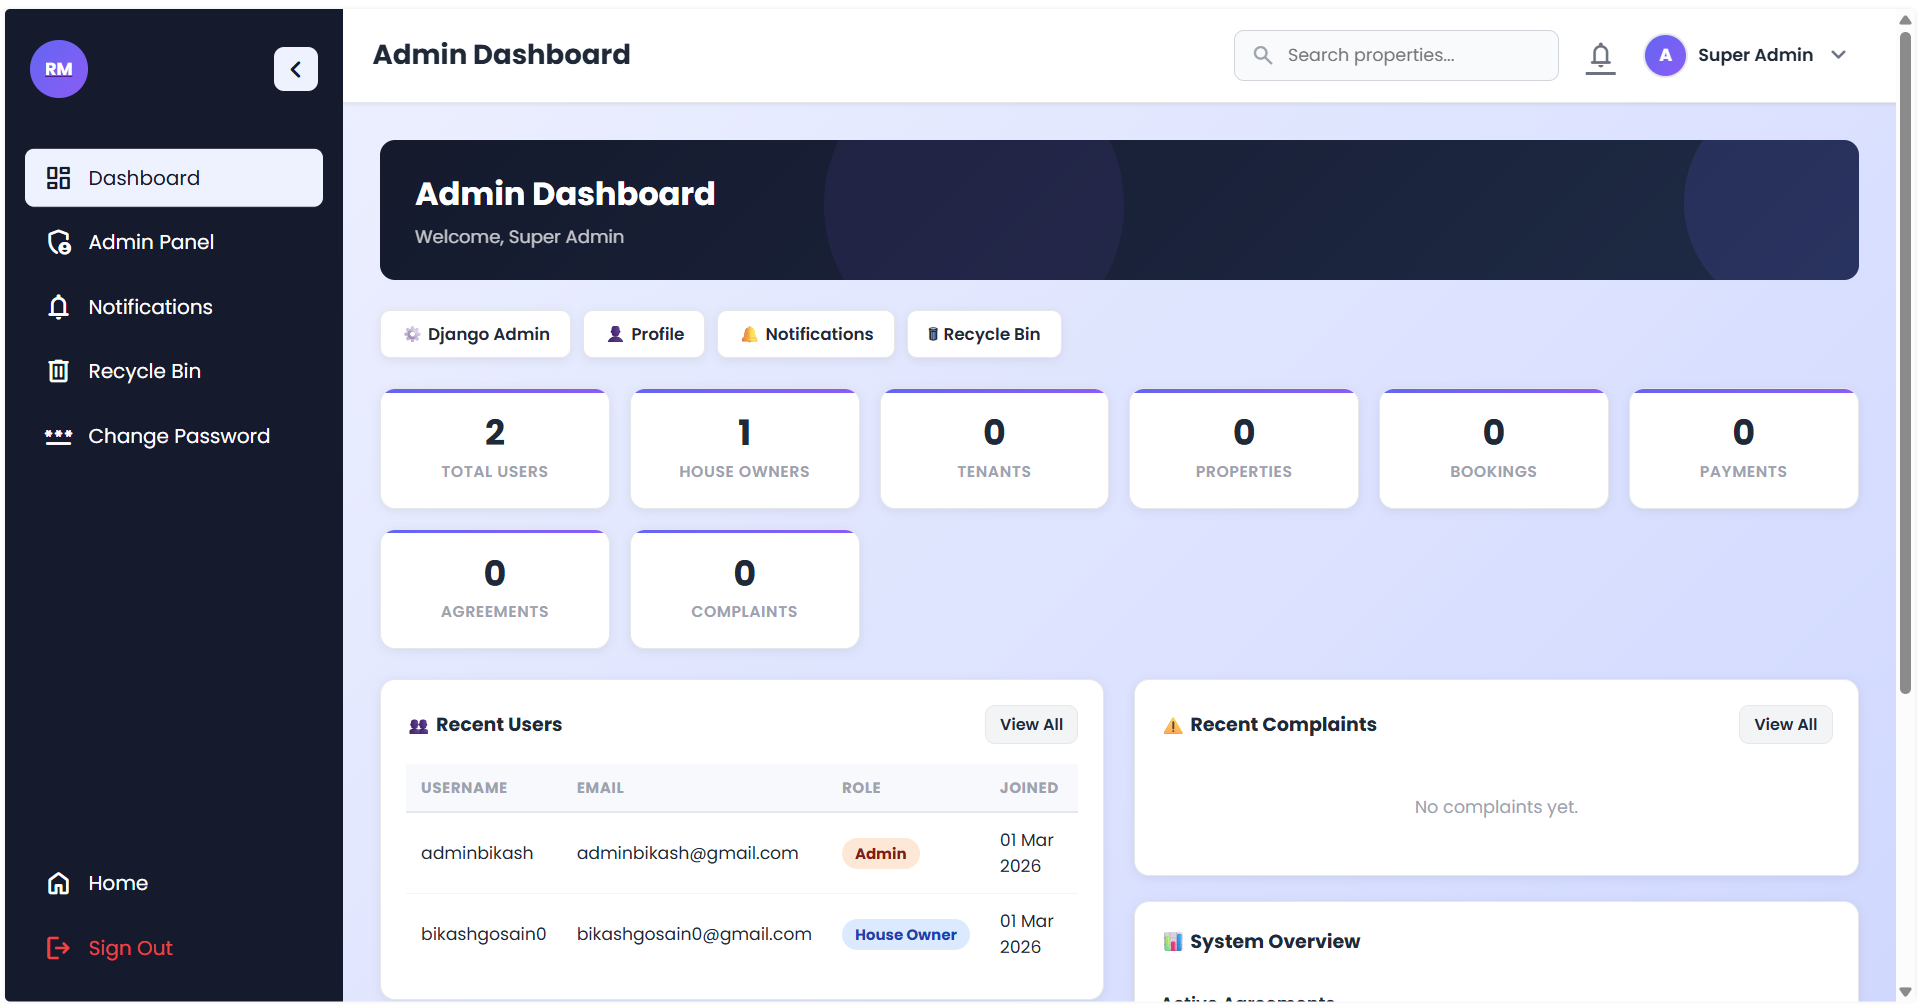
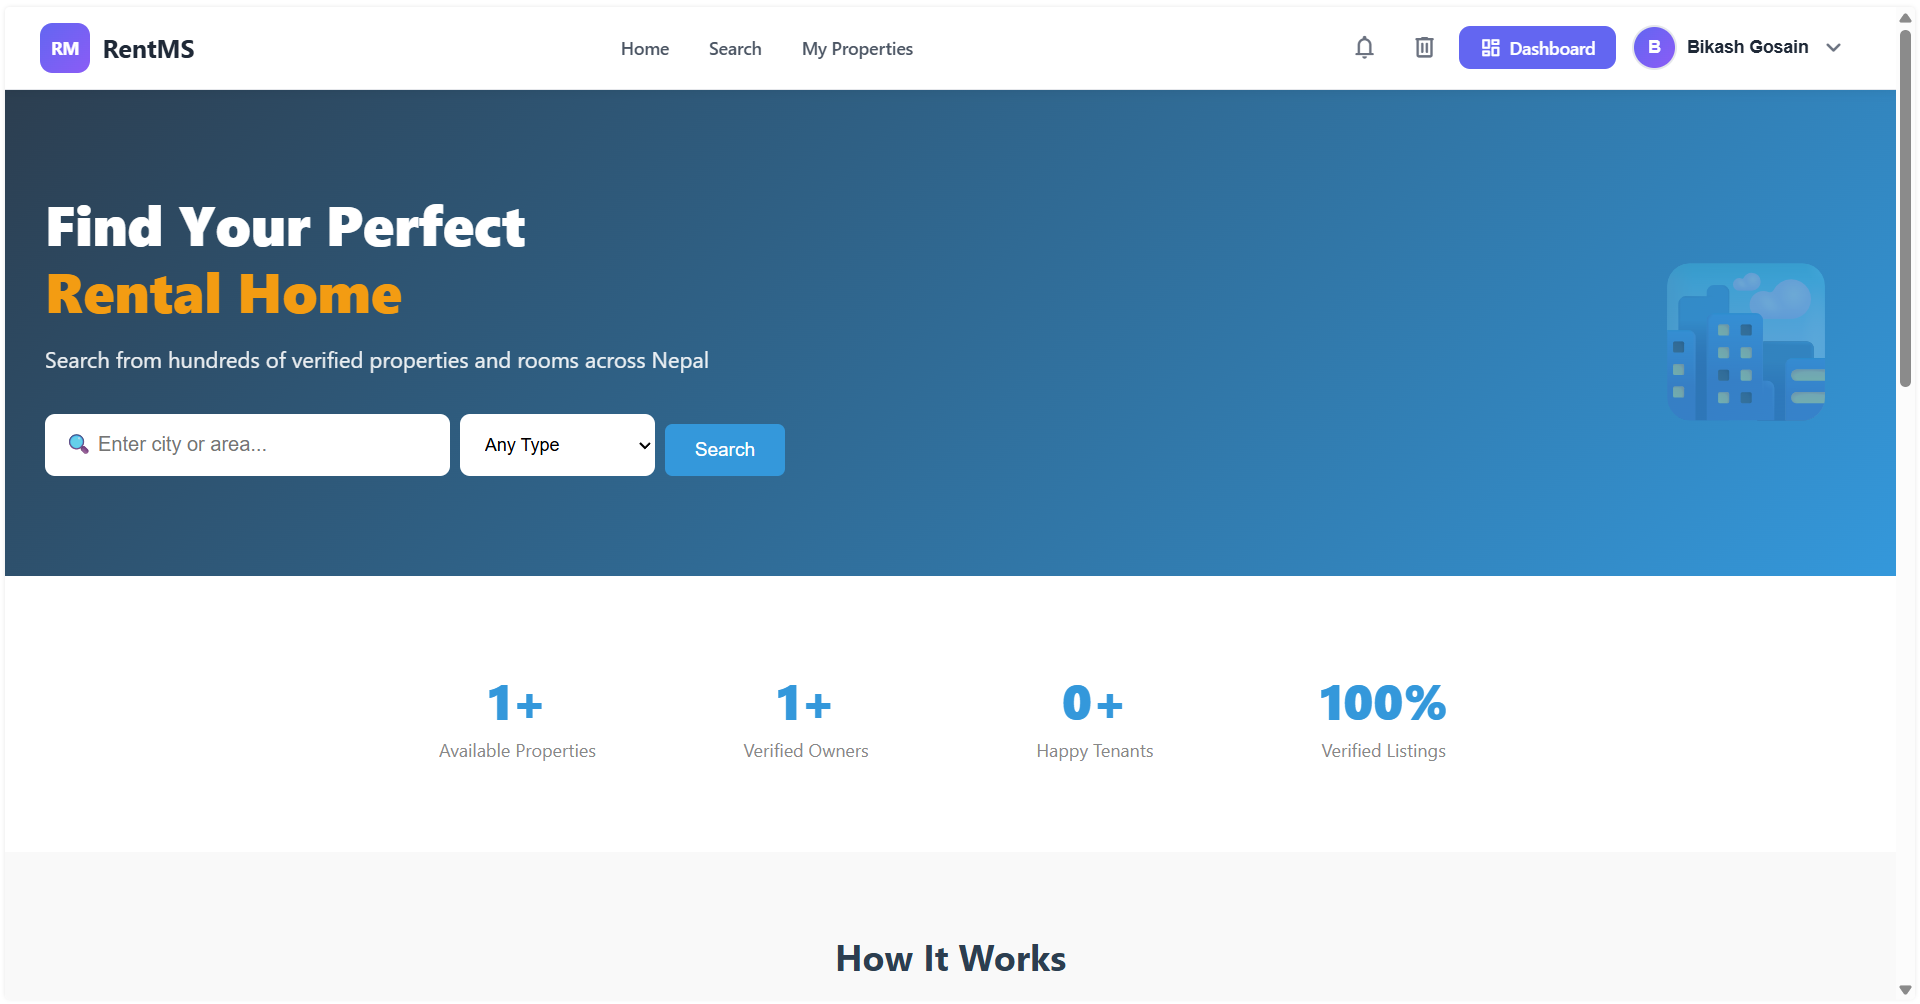
add req.txt file outside and added csv files

diff --git a/apps/properties/management/commands/load_sample_data.py b/apps/properties/management/commands/load_sample_data.py
@@ -1,0 +1,131 @@
+import csv
+import os
+from django.core.management.base import BaseCommand
+from django.contrib.auth import get_user_model
+from apps.properties.models import Property, PropertyPhoto, Room, RoomFacility, RoomPhoto
+
+User = get_user_model()
+CSV_DIR = os.path.join(os.path.dirname(__file__), '../../../../csv_data')
+
+def bool_val(v):
+    return v.strip().lower() == 'true'
+
+class Command(BaseCommand):
+    help = 'Load sample CSV data into the database'
+
+    def handle(self, *args, **kwargs):
+        self.load_users()
+        self.load_properties()
+        self.load_property_photos()
+        self.load_rooms()
+        self.load_room_facilities()
+        self.load_room_photos()
+        self.stdout.write(self.style.SUCCESS('✅ All sample data loaded!'))
+
+    def load_users(self):
+        with open(f'{CSV_DIR}/users.csv') as f:
+            for row in csv.DictReader(f):
+                if not User.objects.filter(username=row['username']).exists():
+                    User.objects.create_user(
+                        id=row['id'],
+                        username=row['username'],
+                        email=row['email'],
+                        first_name=row['first_name'],
+                        last_name=row['last_name'],
+                        password='password123',
+                        role=row['role'],
+                        phone=row['phone'],
+                    )
+        self.stdout.write('  → Users loaded')
+
+    def load_properties(self):
+        with open(f'{CSV_DIR}/properties.csv') as f:
+            for row in csv.DictReader(f):
+                owner = User.objects.get(id=row['owner_id'])
+                Property.objects.get_or_create(id=row['id'], defaults={
+                    'owner': owner,
+                    'title': row['title'],
+                    'type': row['type'],
+                    'rent_type': row['rent_type'],
+                    'description': row['description'],
+                    'address': row['address'],
+                    'city': row['city'],
+                    'state': row['state'],
+                    'landmark': row['landmark'],
+                    'total_floors': int(row['total_floors']),
+                    'total_rooms': int(row['total_rooms']),
+                    'total_bedrooms': int(row['total_bedrooms']),
+                    'total_bathrooms': int(row['total_bathrooms']),
+                    'total_kitchens': int(row['total_kitchens']),
+                    'area_sqft': int(row['area_sqft']) if row['area_sqft'] else None,
+                    'furnishing': row['furnishing'],
+                    'has_parking': bool_val(row['has_parking']),
+                    'has_water_supply': bool_val(row['has_water_supply']),
+                    'has_electricity_backup': bool_val(row['has_electricity_backup']),
+                    'has_internet': bool_val(row['has_internet']),
+                    'rent_price': row['rent_price'] or None,
+                    'security_deposit': row['security_deposit'] or None,
+                    'advance_months': int(row['advance_months']),
+                    'status': row['status'],
+                })
+        self.stdout.write('  → Properties loaded')
+
+    def load_property_photos(self):
+        with open(f'{CSV_DIR}/property_photos.csv') as f:
+            for row in csv.DictReader(f):
+                prop = Property.objects.get(id=row['property_id'])
+                PropertyPhoto.objects.get_or_create(id=row['id'], defaults={
+                    'property': prop,
+                    'image': row['image'],
+                    'caption': row['caption'],
+                    'is_cover': bool_val(row['is_cover']),
+                })
+        self.stdout.write('  → Property photos loaded')
+
+    def load_rooms(self):
+        with open(f'{CSV_DIR}/rooms.csv') as f:
+            for row in csv.DictReader(f):
+                prop = Property.objects.get(id=row['property_id'])
+                Room.objects.get_or_create(id=row['id'], defaults={
+                    'property': prop,
+                    'room_number': row['room_number'],
+                    'room_type': row['room_type'],
+                    'description': row['description'],
+                    'bedrooms': int(row['bedrooms']),
+                    'bathroom_type': row['bathroom_type'],
+                    'kitchen_type': row['kitchen_type'],
+                    'floor_number': int(row['floor_number']),
+                    'area_sqft': int(row['area_sqft']) if row['area_sqft'] else None,
+                    'furnishing': row['furnishing'],
+                    'rent_price': row['rent_price'],
+                    'security_deposit': row['security_deposit'] or None,
+                    'advance_months': int(row['advance_months']),
+                    'status': row['status'],
+                })
+        self.stdout.write('  → Rooms loaded')
+
+    def load_room_facilities(self):
+        bool_fields = ['wifi','water_included','electricity_included','gas_included',
+                       'ac','heater','refrigerator','washing_machine','tv','microwave',
+                       'kitchen','parking','balcony','garden','storage',
+                       'laundry','security_guard','cctv','lift','housekeeping',
+                       'furnished','bed','wardrobe','study_table','sofa']
+        with open(f'{CSV_DIR}/room_facilities.csv') as f:
+            for row in csv.DictReader(f):
+                room = Room.objects.get(id=row['room_id'])
+                RoomFacility.objects.get_or_create(room=room, defaults={
+                    field: bool_val(row[field]) for field in bool_fields
+                })
+        self.stdout.write('  → Room facilities loaded')
+
+    def load_room_photos(self):
+        with open(f'{CSV_DIR}/room_photos.csv') as f:
+            for row in csv.DictReader(f):
+                room = Room.objects.get(id=row['room_id'])
+                RoomPhoto.objects.get_or_create(id=row['id'], defaults={
+                    'room': room,
+                    'image': row['image'],
+                    'caption': row['caption'],
+                    'is_cover': bool_val(row['is_cover']),
+                })
+        self.stdout.write('  → Room photos loaded')

diff --git a/manage.py b/manage.py
@@ -3,11 +3,10 @@
 import os
 import sys
 
-
 def main():
     """Run administrative tasks."""
-    # Use production settings for Render deployment
-    os.environ.setdefault('DJANGO_SETTINGS_MODULE', 'config.settings.production')
+    # Use development settings for local development
+    os.environ.setdefault('DJANGO_SETTINGS_MODULE', 'config.settings.development')
     try:
         from django.core.management import execute_from_command_line
     except ImportError as exc:
